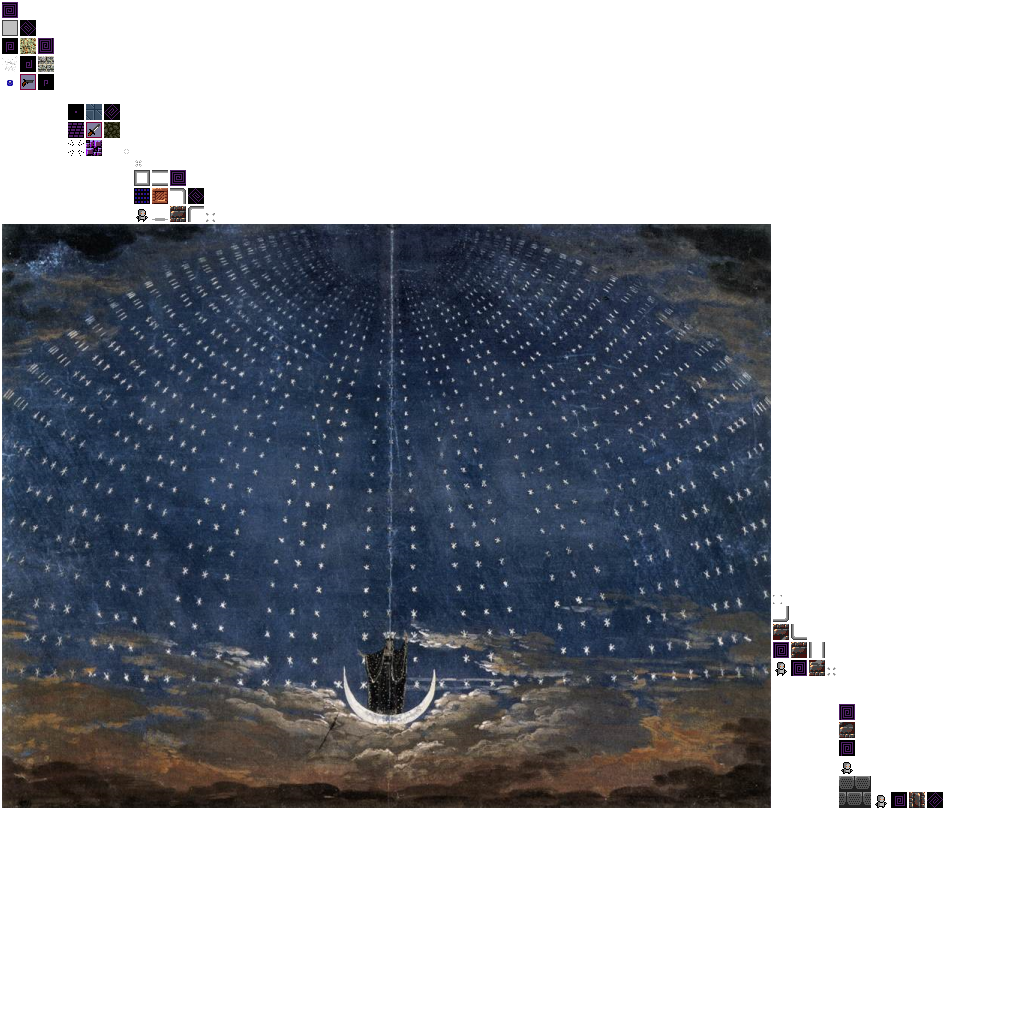
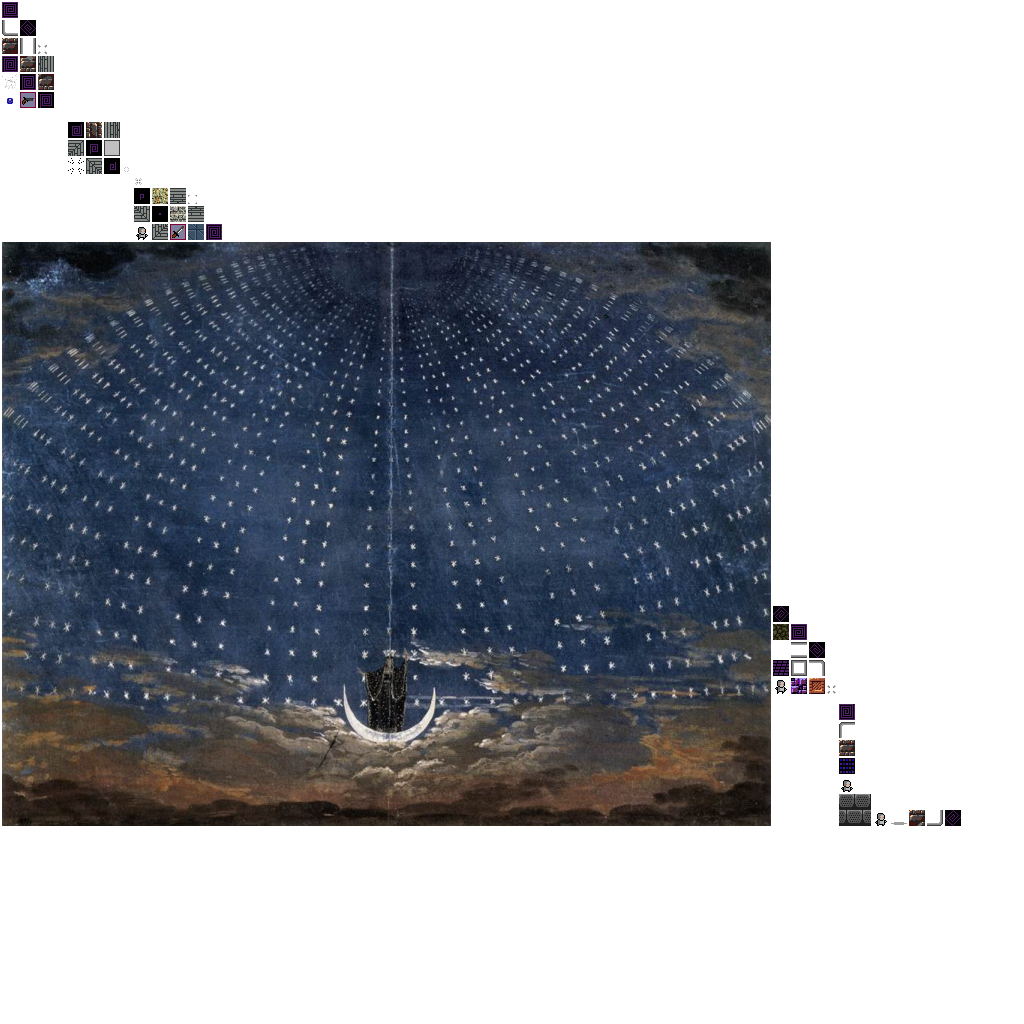
wip - experiment with new wall tiles

Changed region(s): [[0.0, 0.0, 0.8125, 0.8125], [0.8125, 0.6875, 0.9375, 0.8125]]

diff --git a/core/src/lando/systems/lordsandships/scene/TileMap.java b/core/src/lando/systems/lordsandships/scene/TileMap.java
@@ -41,12 +41,12 @@ public class TileMap implements Disposable
 		tiles.put("tile-wall-ne",     Assets.atlas.findRegion("tile-wall-ne"));
 		tiles.put("tile-wall-se",     Assets.atlas.findRegion("tile-wall-se"));
 		tiles.put("tile-wall-sw",     Assets.atlas.findRegion("tile-wall-sw"));
-		tiles.put("tile-brick-horiz", Assets.atlas.findRegion("purple_floor_tile1"));//tile-brick-horiz"));
-		tiles.put("tile-brick-vert",  Assets.atlas.findRegion("purple_floor_tile1"));//tile-brick-vert"));
-		tiles.put("tile-brick-nw",    Assets.atlas.findRegion("purple_floor_tile1"));//"tile-brick-nw"));
-		tiles.put("tile-brick-ne",    Assets.atlas.findRegion("purple_floor_tile1"));//"tile-brick-ne"));
-		tiles.put("tile-brick-se",    Assets.atlas.findRegion("purple_floor_tile1"));//"tile-brick-se"));
-		tiles.put("tile-brick-sw",    Assets.atlas.findRegion("purple_floor_tile1"));//tile-brick-sw"));
+		tiles.put("tile-brick-horiz", Assets.atlas.findRegion("wall-vertical-n"));//purple_floor_tile1"));//tile-brick-horiz"));
+		tiles.put("tile-brick-vert",  Assets.atlas.findRegion("wall-horizontal-e"));//purple_floor_tile1"));//tile-brick-vert"));
+		tiles.put("tile-brick-nw",    Assets.atlas.findRegion("inner-corner-nw"));//purple_floor_tile1"));//"tile-brick-nw"));
+		tiles.put("tile-brick-ne",    Assets.atlas.findRegion("inner-corner-ne"));//purple_floor_tile1"));//"tile-brick-ne"));
+		tiles.put("tile-brick-se",    Assets.atlas.findRegion("inner-corner-se"));//purple_floor_tile1"));//"tile-brick-se"));
+		tiles.put("tile-brick-sw",    Assets.atlas.findRegion("inner-corner-sw"));//purple_floor_tile1"));//tile-brick-sw"));
 		tiles.put("grate",            Assets.atlas.findRegion("purple_bricks1"));//tile-floor5"));
 
 		tile_textures = Collections.unmodifiableMap(tiles);
